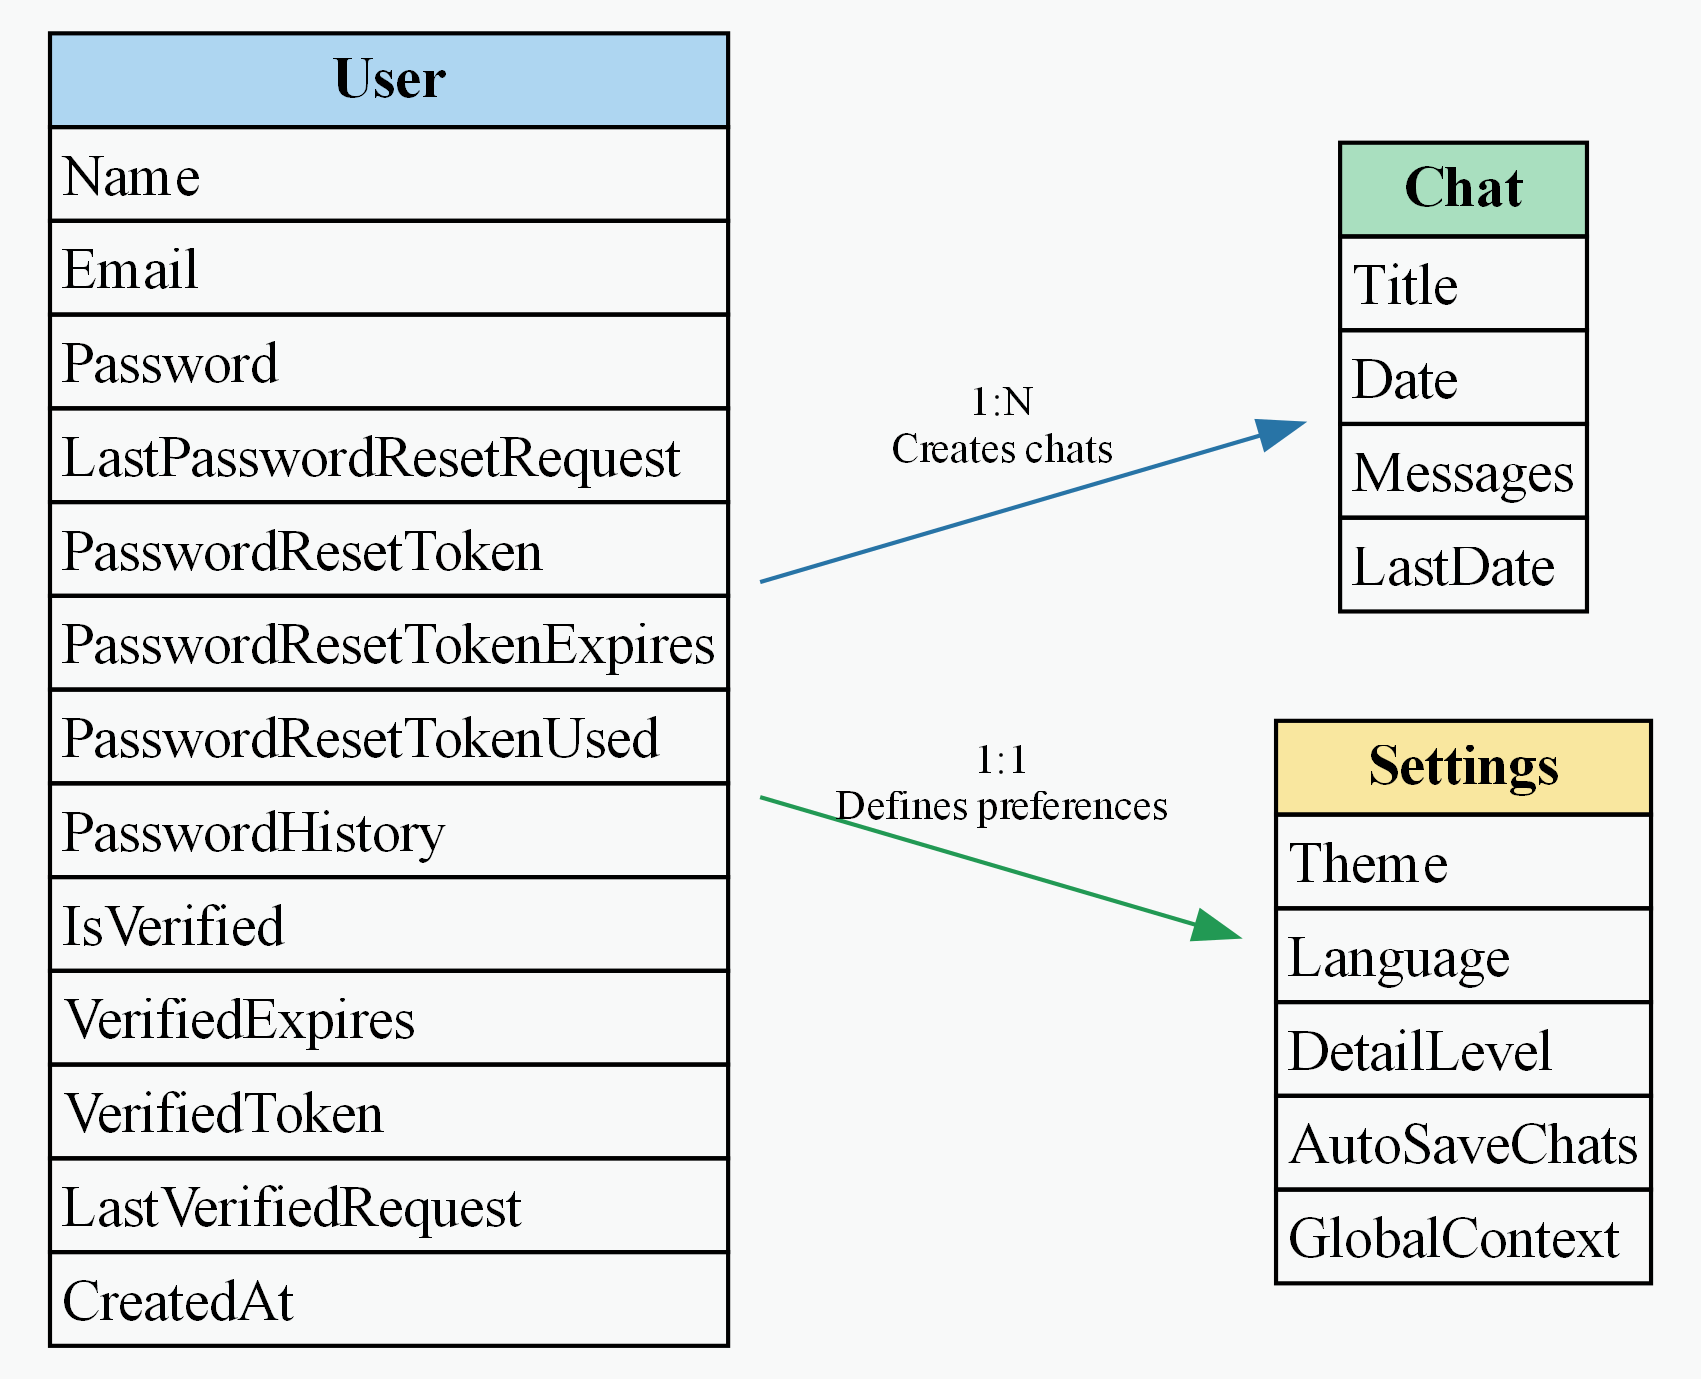
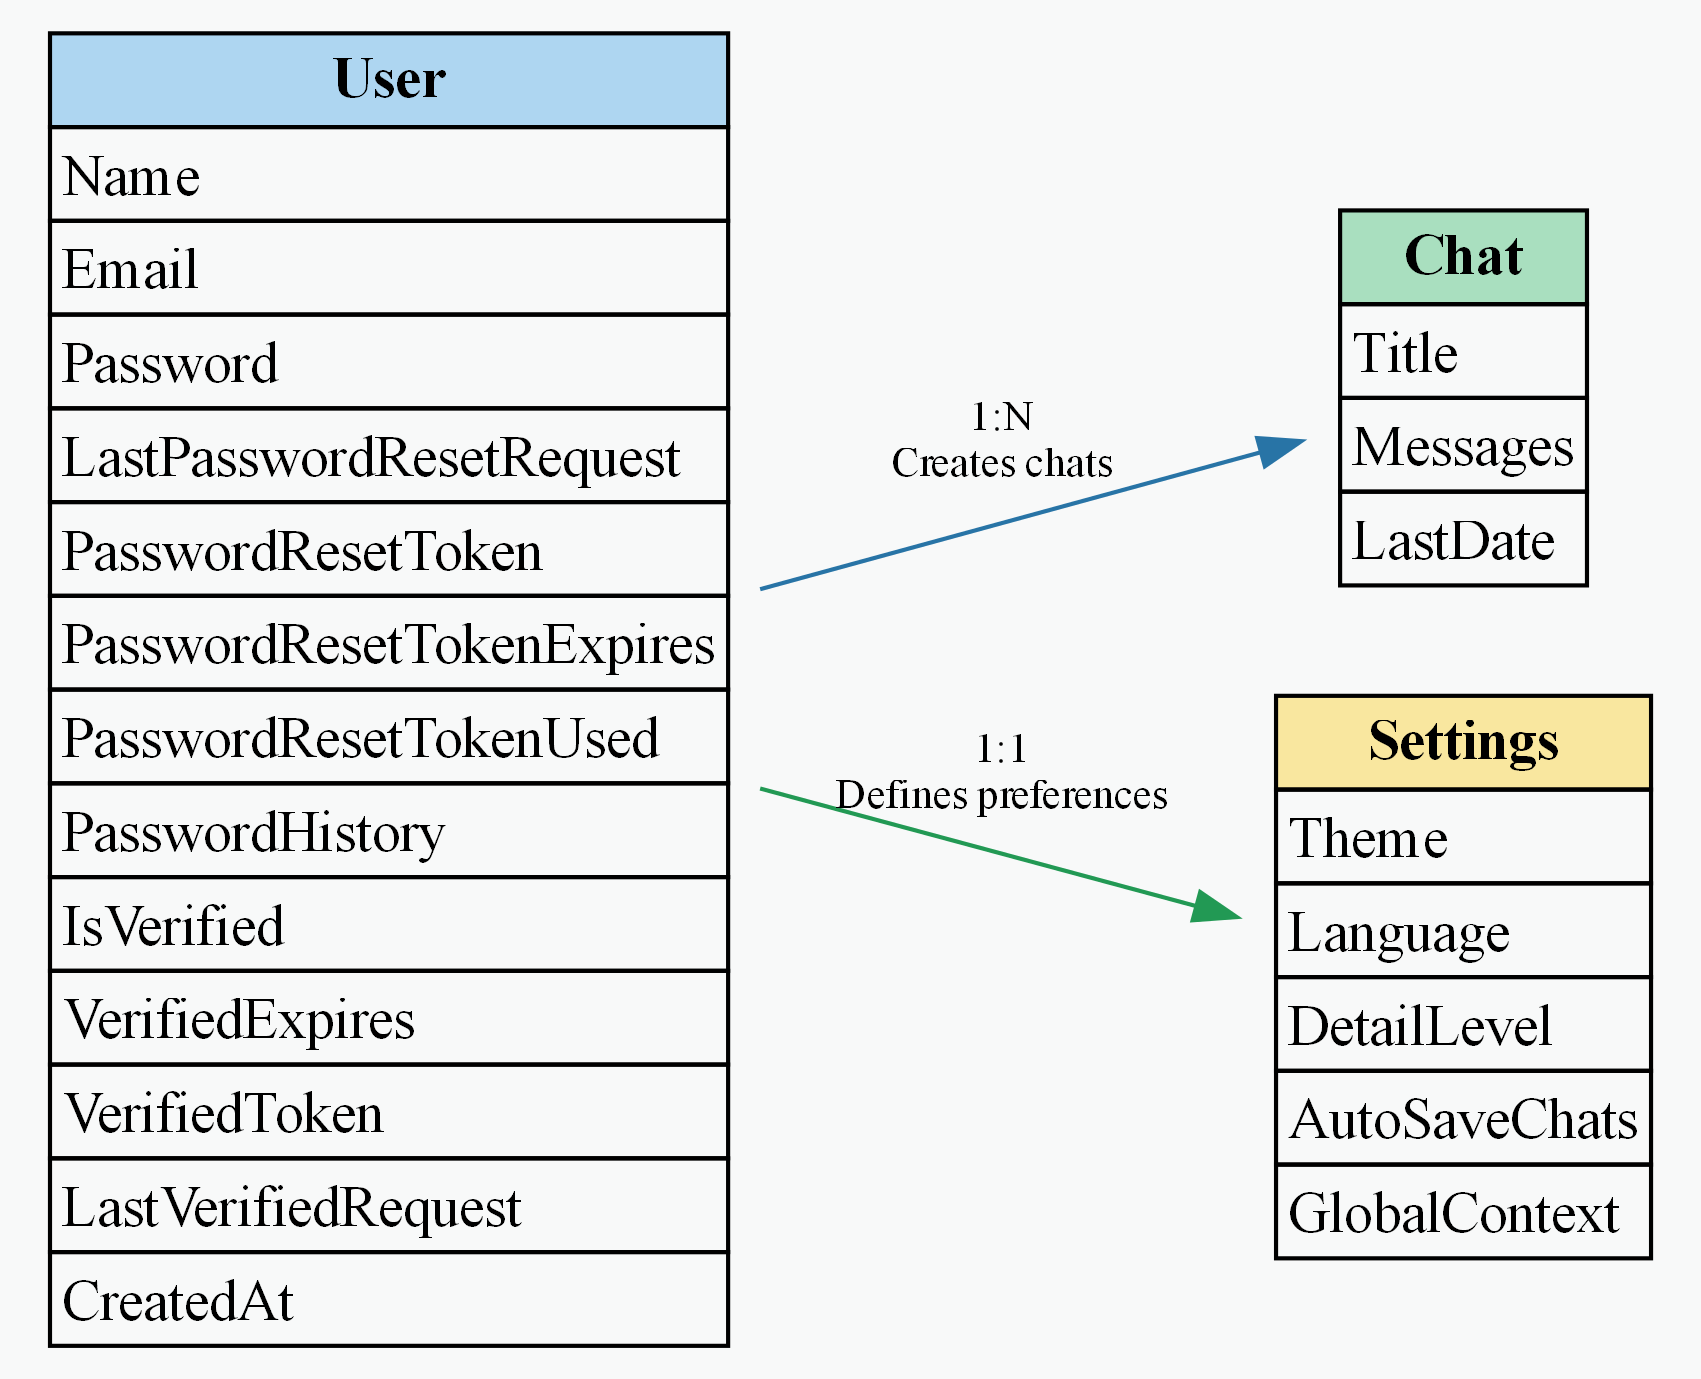
modelos cambiados y submodulo backend actualizado

diff --git a/conceptual_model/uml_diagram.py b/conceptual_model/uml_diagram.py
@@ -25,7 +25,6 @@ uml.node("User", '''<<table border="0" cellborder="1" cellspacing="0">
 uml.node('Chat', '''<<table border="0" cellborder="1" cellspacing="0">
 <tr><td port="header" bgcolor="#A9DFBF"><b>Chat</b></td></tr>
 <tr><td align="left">Title</td></tr>
-<tr><td align="left">Date</td></tr>
 <tr><td align="left">Messages</td></tr>
 <tr><td align="left">LastDate</td></tr>
 </table>>''', shape='plaintext', style='rounded')
